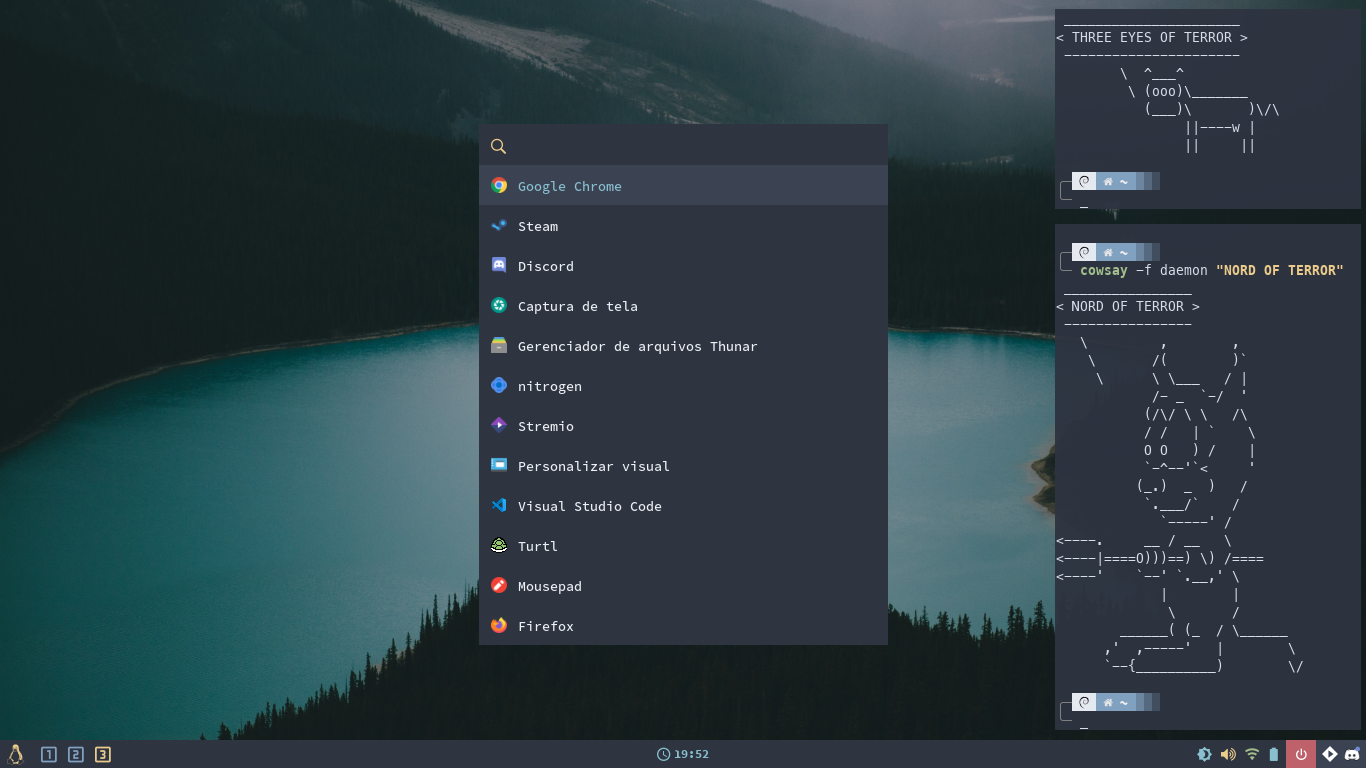
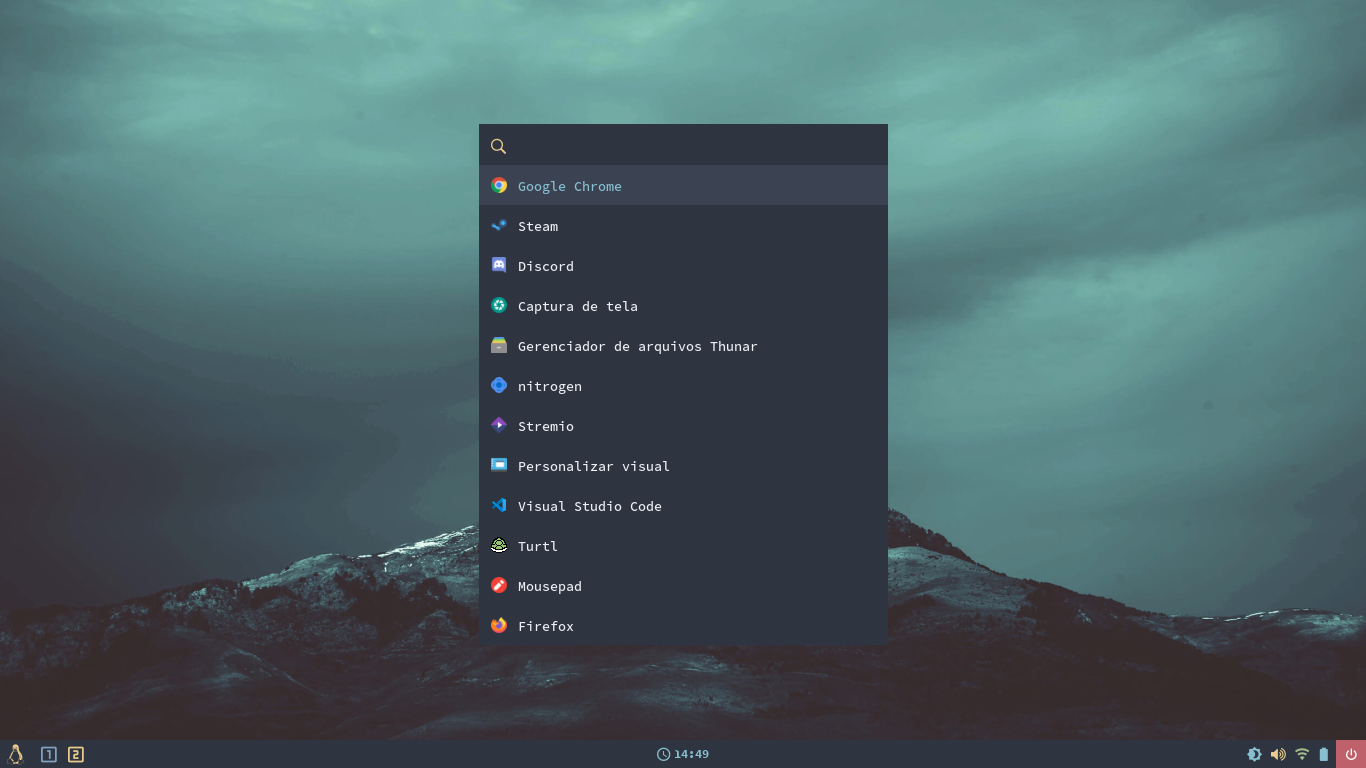
updated

diff --git a/README.md b/README.md
@@ -7,4 +7,4 @@
 - [Nord Rofi Theme](https://github.com/Murzchnvok/nord-rofi-theme)
 
 ## Wallpaper
-- [wallpapersden](https://wallpapersden.com/peyto-lake-4k-wallpaper/)
+- [GDrive](https://drive.google.com/open?id=1kgGY2QLpeCu4ITYUpcU9O2WCiIB4UZXh)
